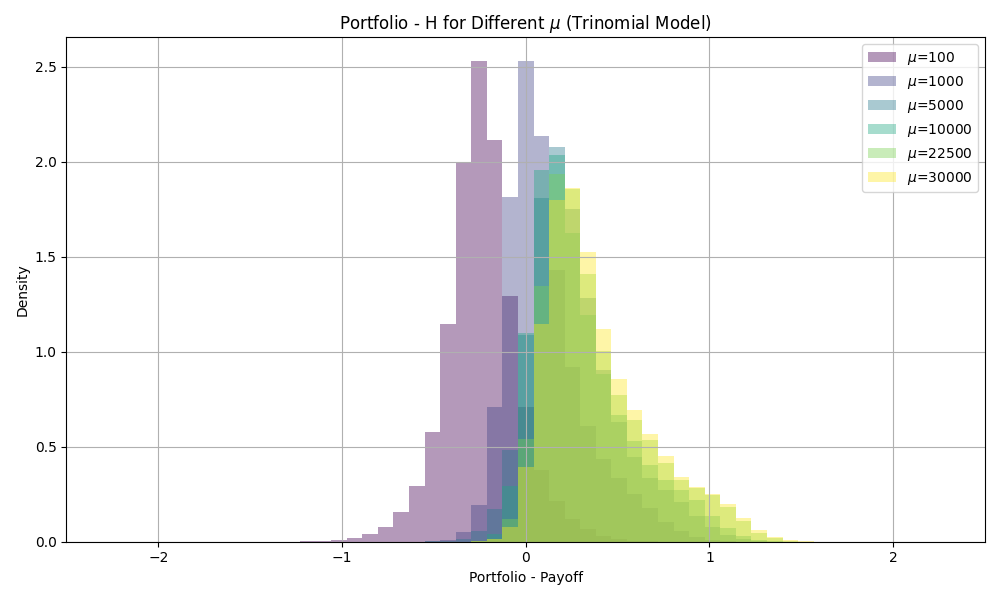
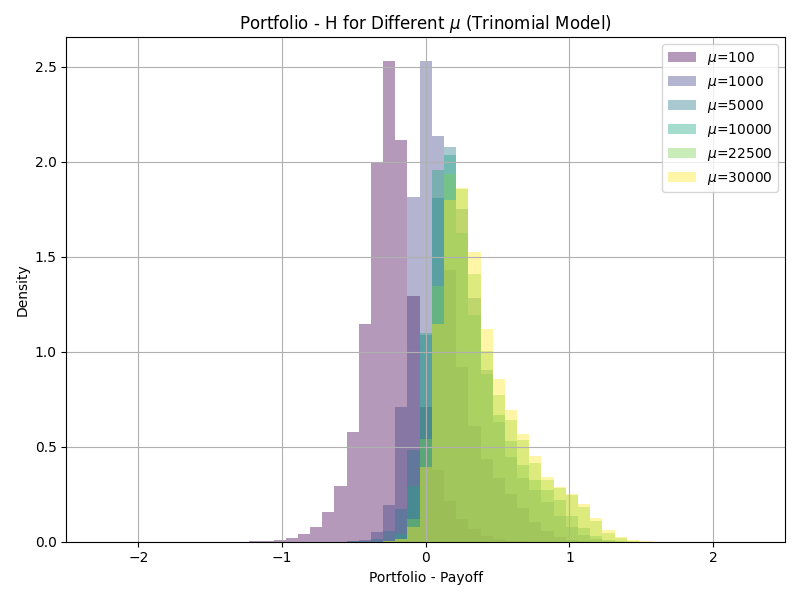
Overlay histogram

diff --git a/evaluation/trinomial_eval_across_mu.py b/evaluation/trinomial_eval_across_mu.py
@@ -109,7 +109,7 @@ df = pd.DataFrame({
 })
 df.to_csv(os.path.join(model_dir, "mu_results_trinomial.csv"), index=False)
 # ---------- Combined Histogram ----------
-plt.figure(figsize=(10, 6))
+plt.figure(figsize=(8, 6))
 colors = plt.cm.viridis(np.linspace(0, 1, len(mu_values)))
 bins = np.linspace(-2.5, 2.5, 60)  # fixed bin range for consistency
 
